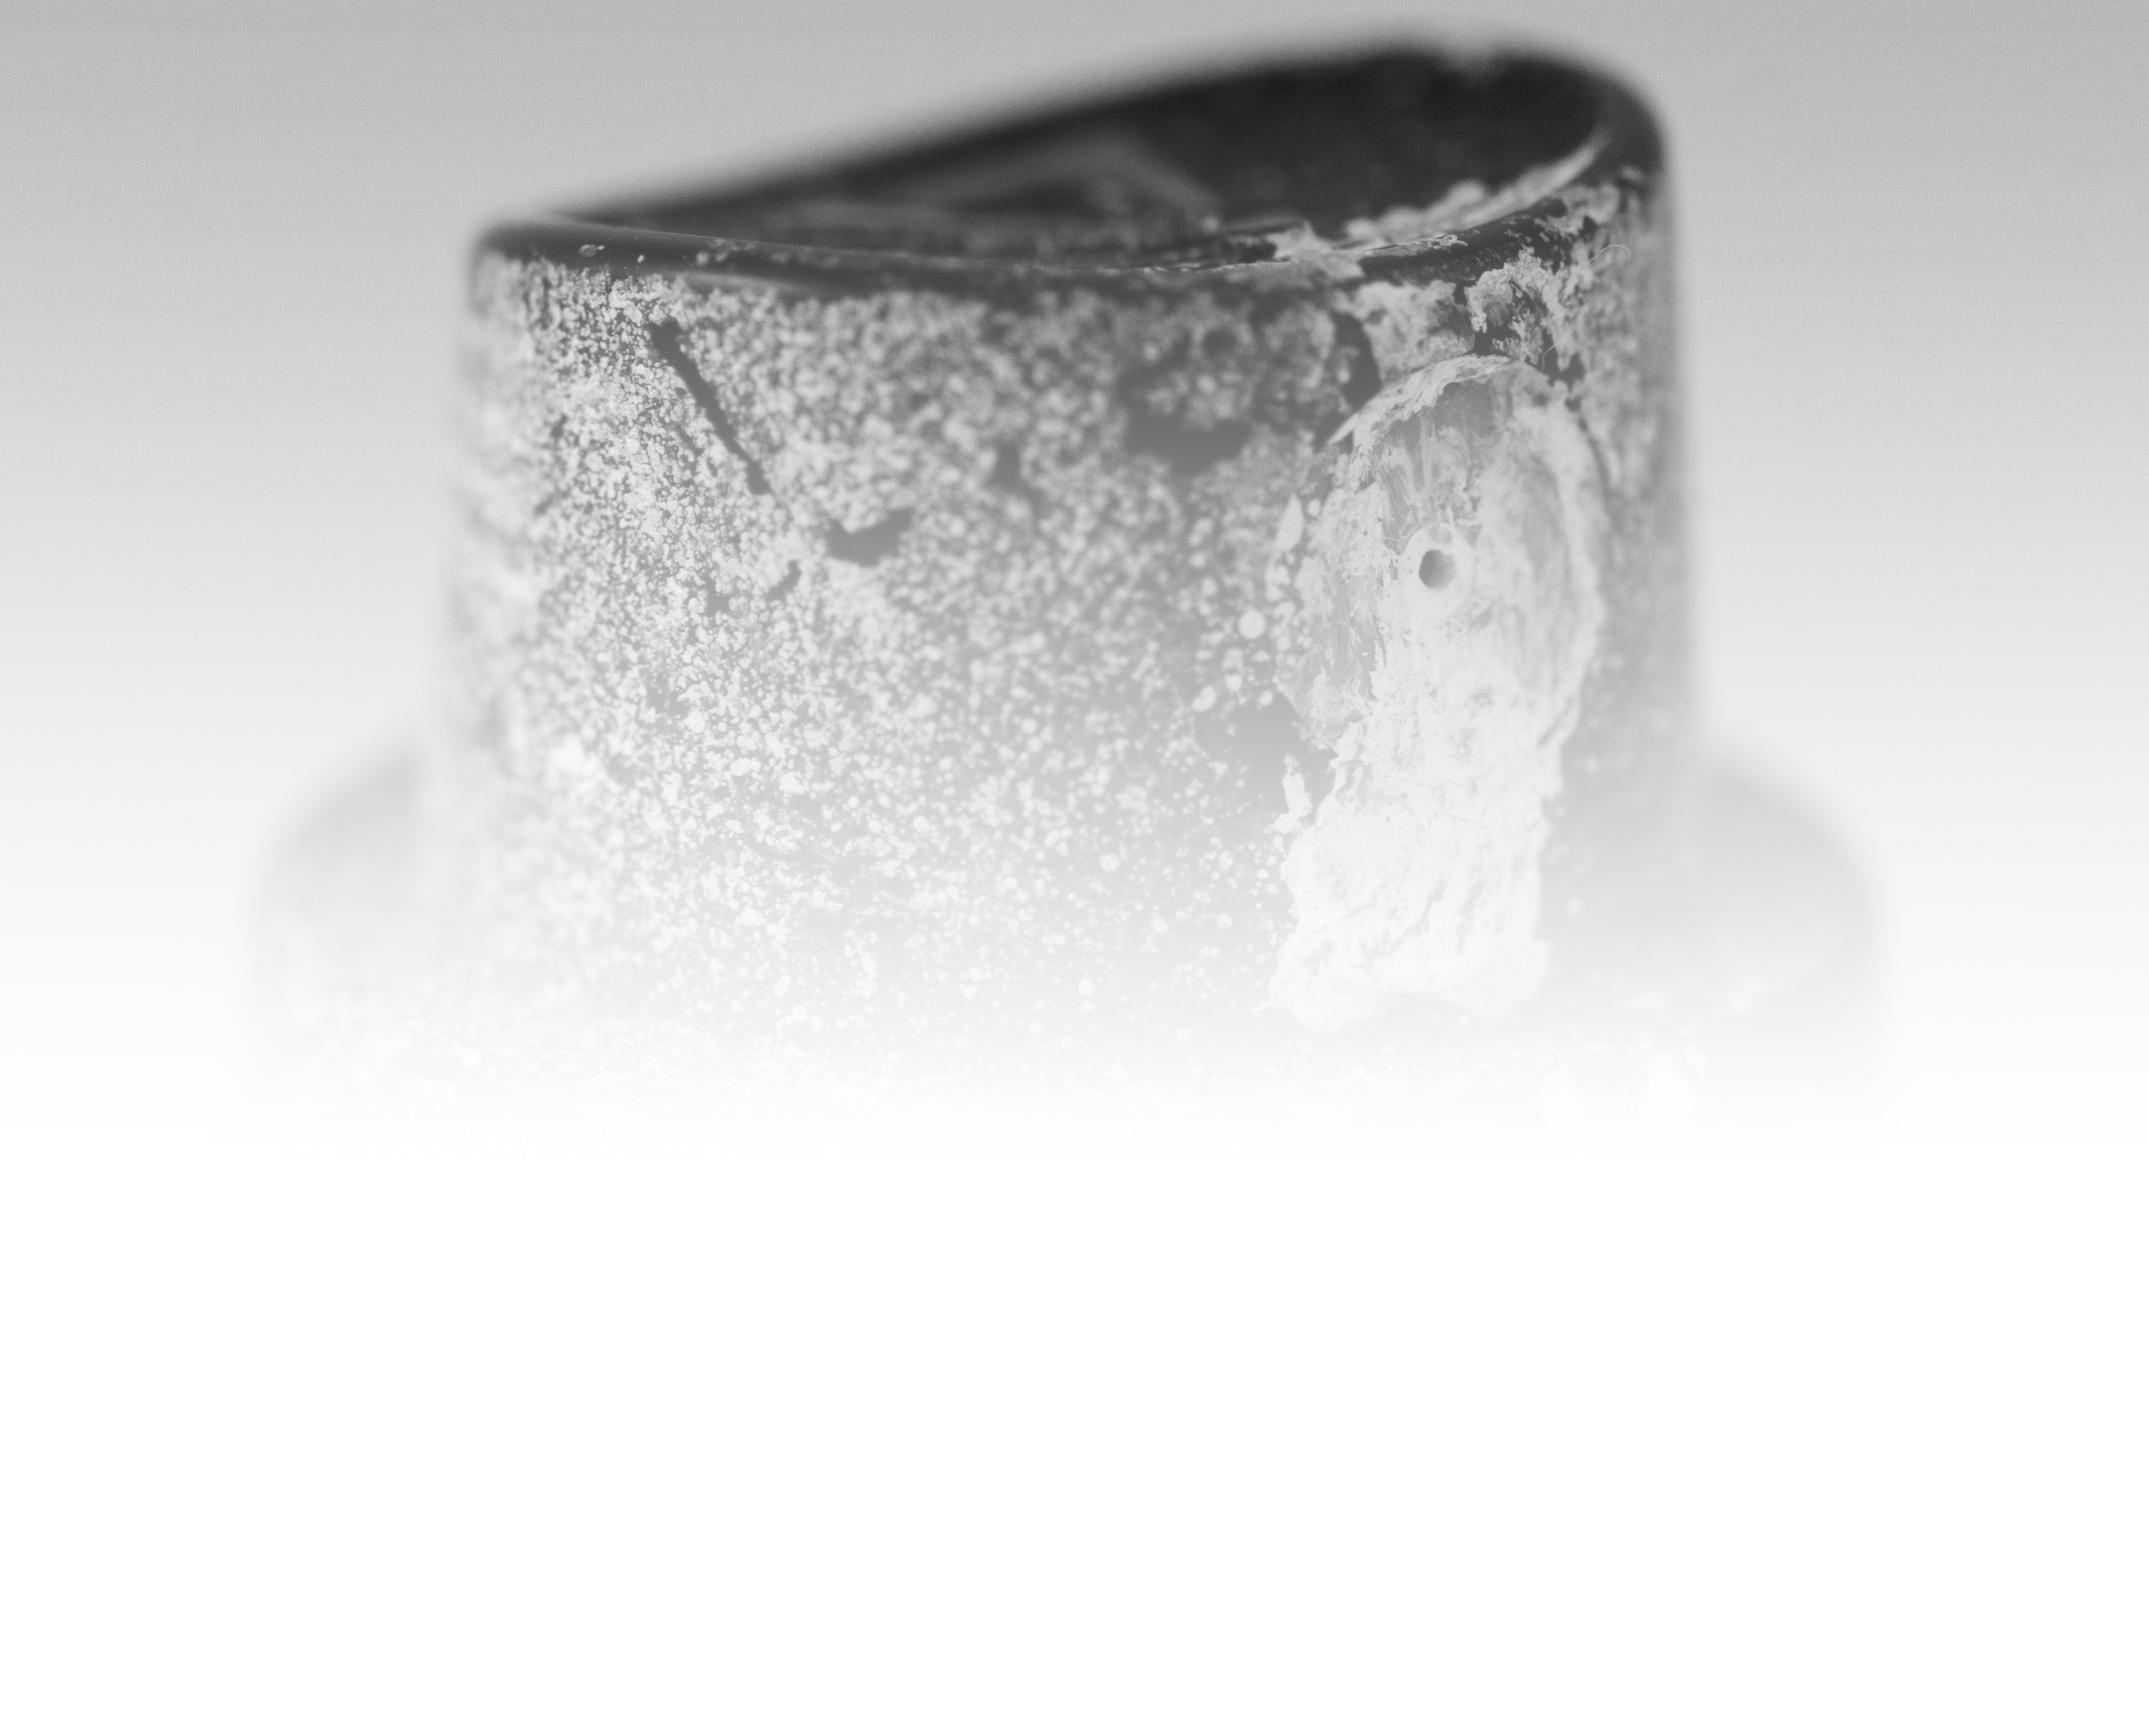
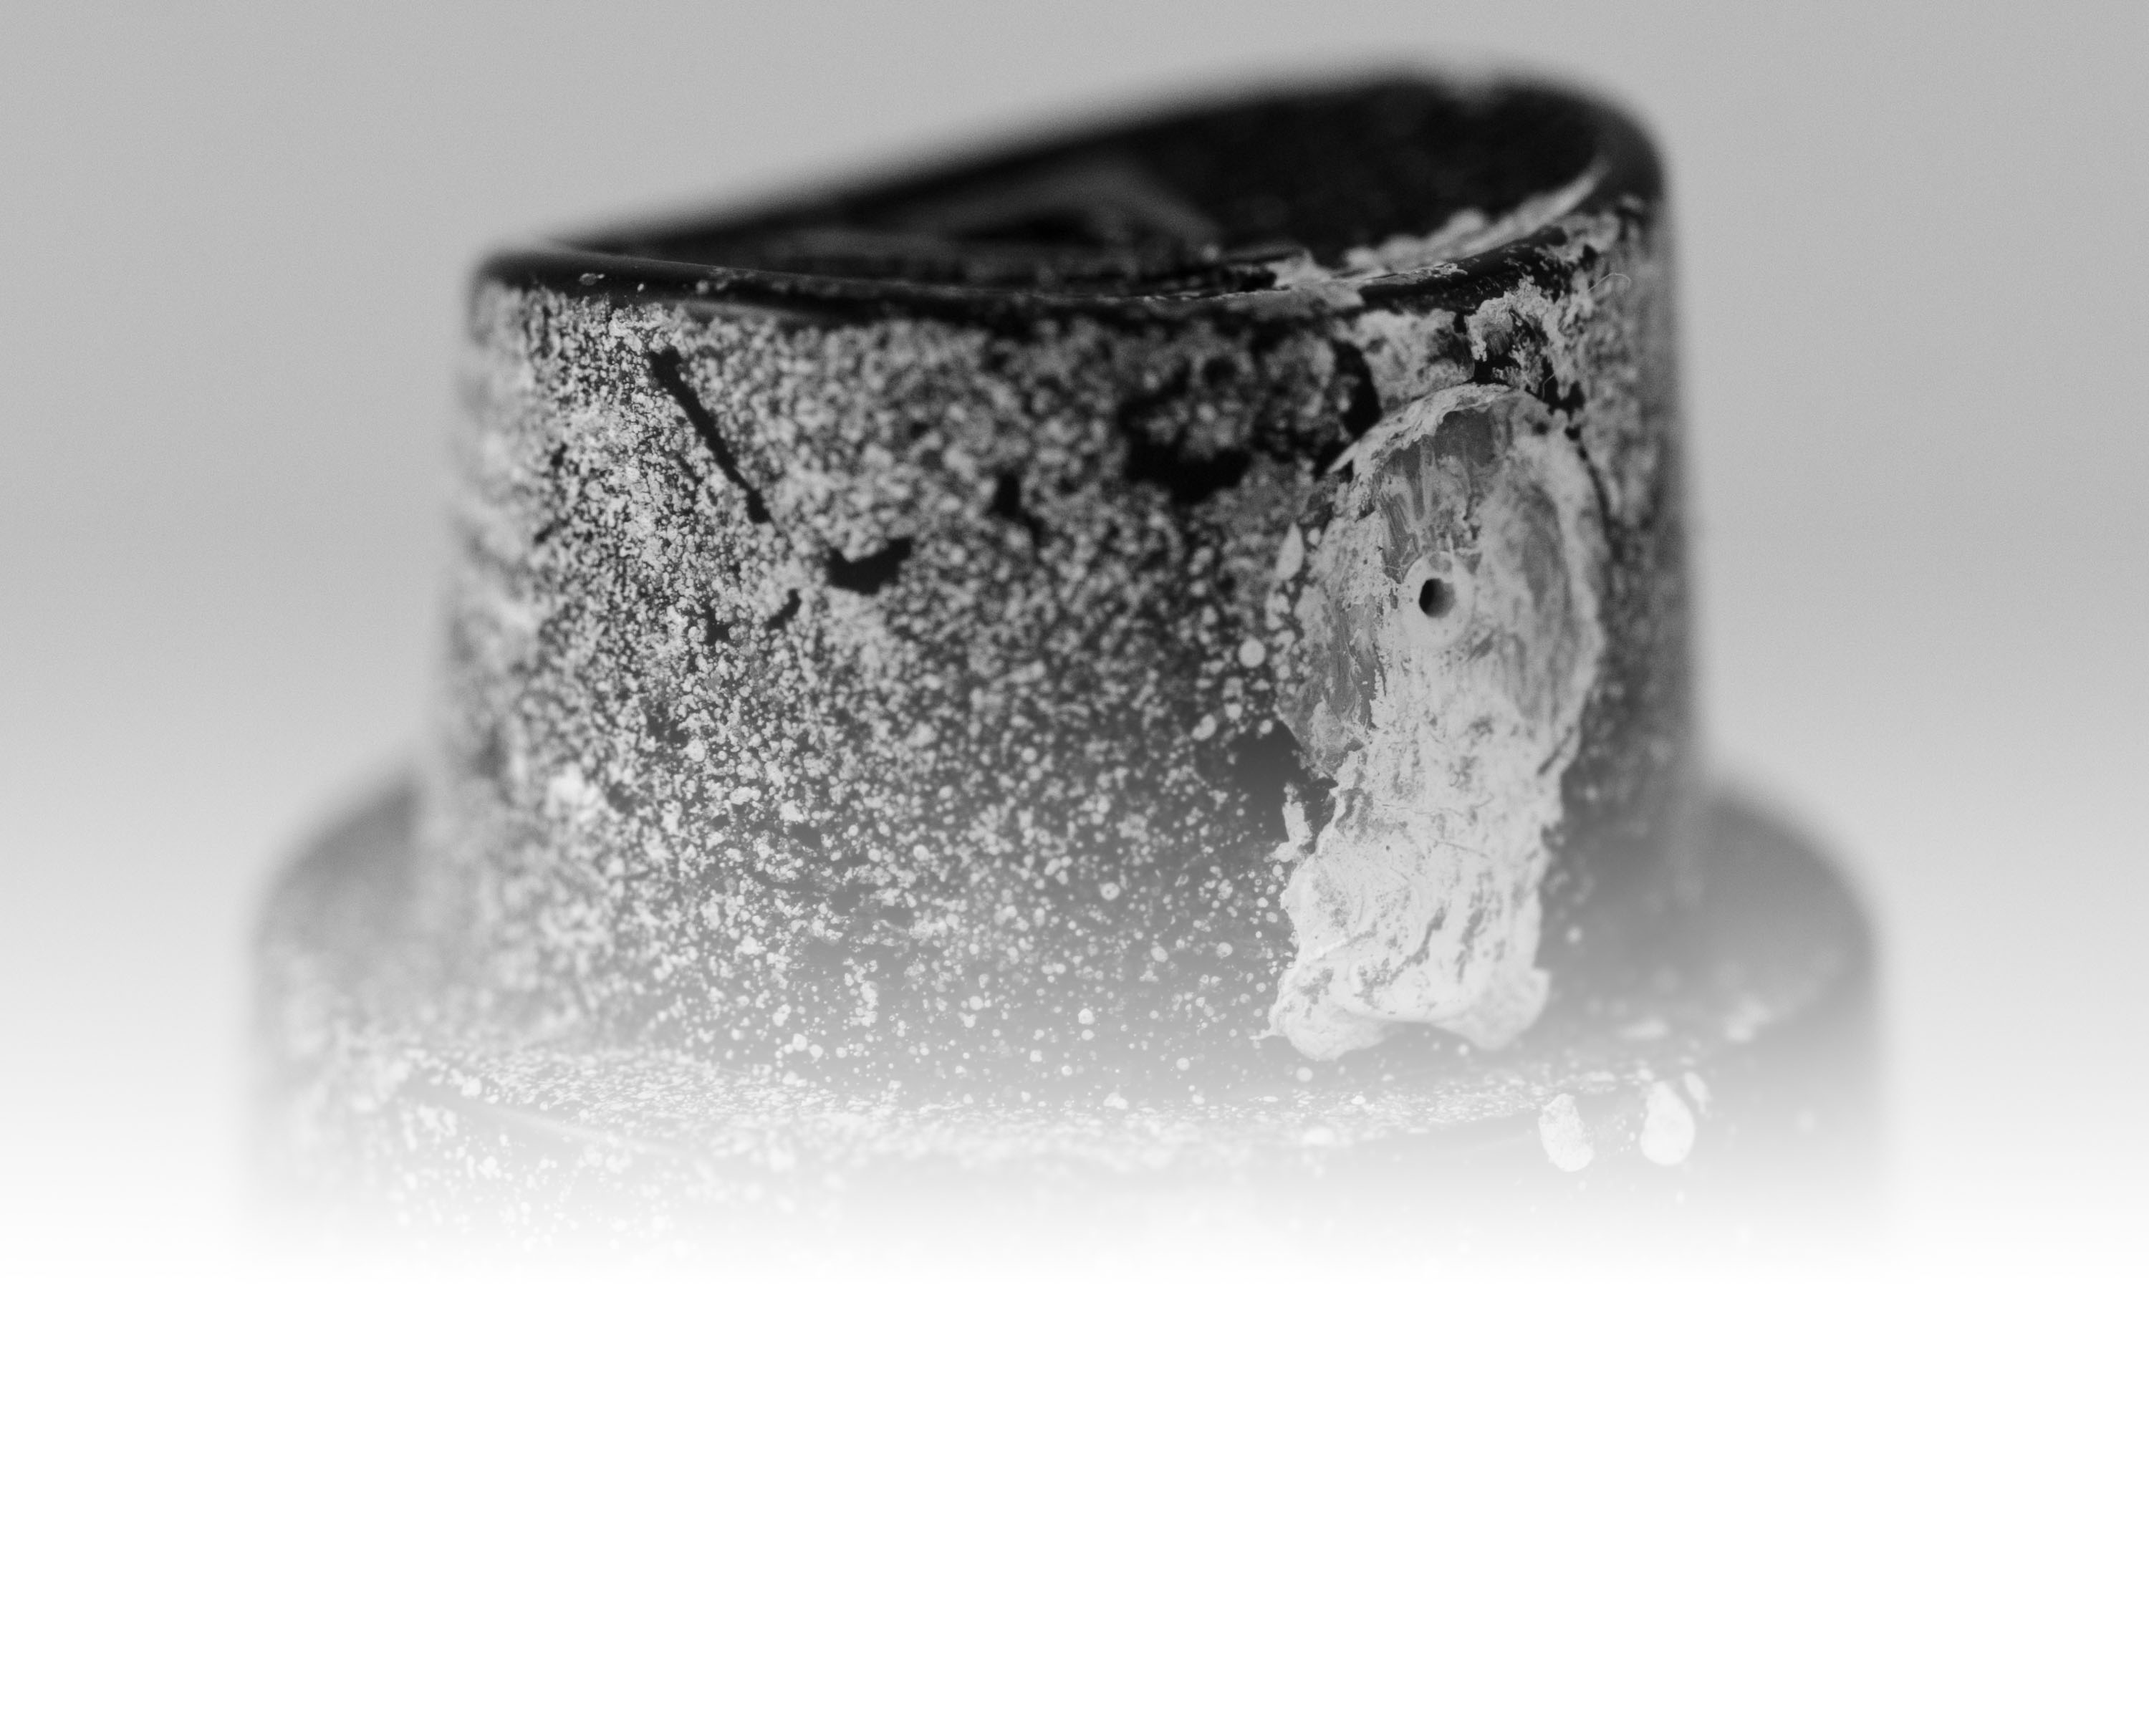
added links to live website, and updates to titles

diff --git a/_site/index.html b/_site/index.html
@@ -12,7 +12,7 @@
 
 <body>
 
-  <header style="background-image: url('/img/whitecap.jpg'); background-size: cover; background-position: center; ">
+  <header style="background-image: url('/img/blackcap.jpg'); background-size: cover; background-position: center; ">
   <div class="hero">
 
     <a href="/"><img class="wordmark" src="/img/wordmark.svg"></a>
@@ -38,13 +38,13 @@
 
     <div class="para-title">
   <div class="rellax title-opq" data-rellax-speed="-5">
-    <h2>my work</h2>
+    <h2>web design, branding solutions</h2>
   </div>
   <div class="rellax title-trl" data-rellax-speed="-3">
-    <h2>my work</h2>
+    <h2>web design, branding solutions</h2>
   </div>
   <div class="rellax title-trp" data-rellax-speed="-1">
-    <h2>my work</h2>
+    <h2>web design, branding solutions</h2>
   </div>
   <div class="down rellax" data-rellax-speed="1">
     <img src="/img/down.svg">
@@ -56,6 +56,8 @@
   <div class="work-container">
     <a href="/tailwater" class="feature-piece-one">
       <div class="feature-piece-box feat-one">
+
+        <h3 style="color: #055138;">Tailwater Outdoors rebrand and site design</h3>
 
         <div class="rellax fish-sm" data-rellax-speed="-3">
           <svg xmlns="http://www.w3.org/2000/svg" viewBox="0 0 248.19 185.94">
@@ -120,6 +122,8 @@
 
     <a href="/etho" class="feature-piece-two">
       <div class="feature-piece-box feat-two">
+
+        <h3 style="color: #f44336;">etho app concept and brand identiy</h3>
 
         <div class="rellax pill-md" data-rellax-speed="2">
           <svg xmlns="http://www.w3.org/2000/svg" viewBox="0 0 309.17 756.16">

diff --git a/index.html b/index.html
@@ -2,18 +2,18 @@
 layout: default
 titleAfter: Branding solutions and web design
 meta: Complete brand solutions - from brand identities to web experiences.
-hero: whitecap.jpg
+hero: blackcap.jpg
 ---
 
 <div class="para-title">
   <div class="rellax title-opq" data-rellax-speed="-5">
-    <h2>my work</h2>
+    <h2>web design, branding solutions</h2>
   </div>
   <div class="rellax title-trl" data-rellax-speed="-3">
-    <h2>my work</h2>
+    <h2>web design, branding solutions</h2>
   </div>
   <div class="rellax title-trp" data-rellax-speed="-1">
-    <h2>my work</h2>
+    <h2>web design, branding solutions</h2>
   </div>
   <div class="down rellax" data-rellax-speed="1">
     <img src="{{site.baseurl}}/img/down.svg">
@@ -25,6 +25,8 @@ hero: whitecap.jpg
   <div class="work-container">
     <a href="{{site.baseurl}}/tailwater" class="feature-piece-one">
       <div class="feature-piece-box feat-one">
+
+        <h3 style="color: #055138;">Tailwater Outdoors rebrand and site design</h3>
 
         <div class="rellax fish-sm" data-rellax-speed="-3">
           <svg xmlns="http://www.w3.org/2000/svg" viewBox="0 0 248.19 185.94">
@@ -89,6 +91,8 @@ hero: whitecap.jpg
 
     <a href="{{site.baseurl}}/etho" class="feature-piece-two">
       <div class="feature-piece-box feat-two">
+
+        <h3 style="color: #f44336;">etho app concept and brand identiy</h3>
 
         <div class="rellax pill-md" data-rellax-speed="2">
           <svg xmlns="http://www.w3.org/2000/svg" viewBox="0 0 309.17 756.16">

diff --git a/_site/tailwater/index.html b/_site/tailwater/index.html
@@ -49,7 +49,7 @@
     </div>
 
     <div class="about-desc">
-      <p>Tailwater Outdoors is a small company based out of Ottawa that creates handmade fishing nets. Until now they had no brand image and no online presence, so when they approached me these two things were the main focus of the project. Tailwater creates stunning wooden nets that are the ideal product for those who truly love to fish, so the brand identity and web store I designed for them were created to let the amazing products they produce have their own voice.</p>
+      <p>Tailwater Outdoors is a small company based out of Ottawa that creates handmade fishing nets. Until now they had no brand image and no online presence, so when they approached me these two things were the main focus of the project. Tailwater creates stunning wooden nets that are the ideal product for those who truly love to fish, so the brand identity and web store I designed for them were created to let the amazing products they produce have their own voice. The web store is still in the progress of being constructed.</p>
     </div>
   </div>
 

diff --git a/_site/farmlead/index.html b/_site/farmlead/index.html
@@ -49,7 +49,7 @@
     </div>
 
     <div class="about-desc">
-      <p>FarmLead is a startup company that is re-imagining the grain marketing industry. They started an online marketplace for farmers to buy and sell grain that instantly connects buyers to sellers and drastically improves the process. My work with them involved designing and coding a new website that would introduce their product to new users and encourage them to explore it.</p>
+      <p>FarmLead is a startup company that is re-imagining the grain marketing industry. They started an online marketplace for farmers to buy and sell grain that instantly connects buyers to sellers and drastically improves the process. My work with them involved designing and coding a new website that would introduce their product to new users and encourage them to explore it. <a href="https://www.farmlead.com">Check out the live website</a></p>
     </div>
   </div>
 

diff --git a/_site/oneplusone/index.html b/_site/oneplusone/index.html
@@ -49,7 +49,7 @@
     </div>
 
     <div class="about-desc">
-      <p>One Plus One is a wedding planning software that takes a lot of the stress out of planning a wedding. My work involved taking their product, designing an identity for it and then designing and coding a marketing website that would introduce users to the product and drive conversions.</p>
+      <p>One Plus One is a wedding planning software that takes a lot of the stress out of planning a wedding. My work involved taking their product, designing an identity for it and then designing and coding a marketing website that would introduce users to the product and drive conversions. <a href="http://robcodonnell.github.io/dsn1675-one-plus-one/">Check out the live website</a></p>
     </div>
   </div>
 
